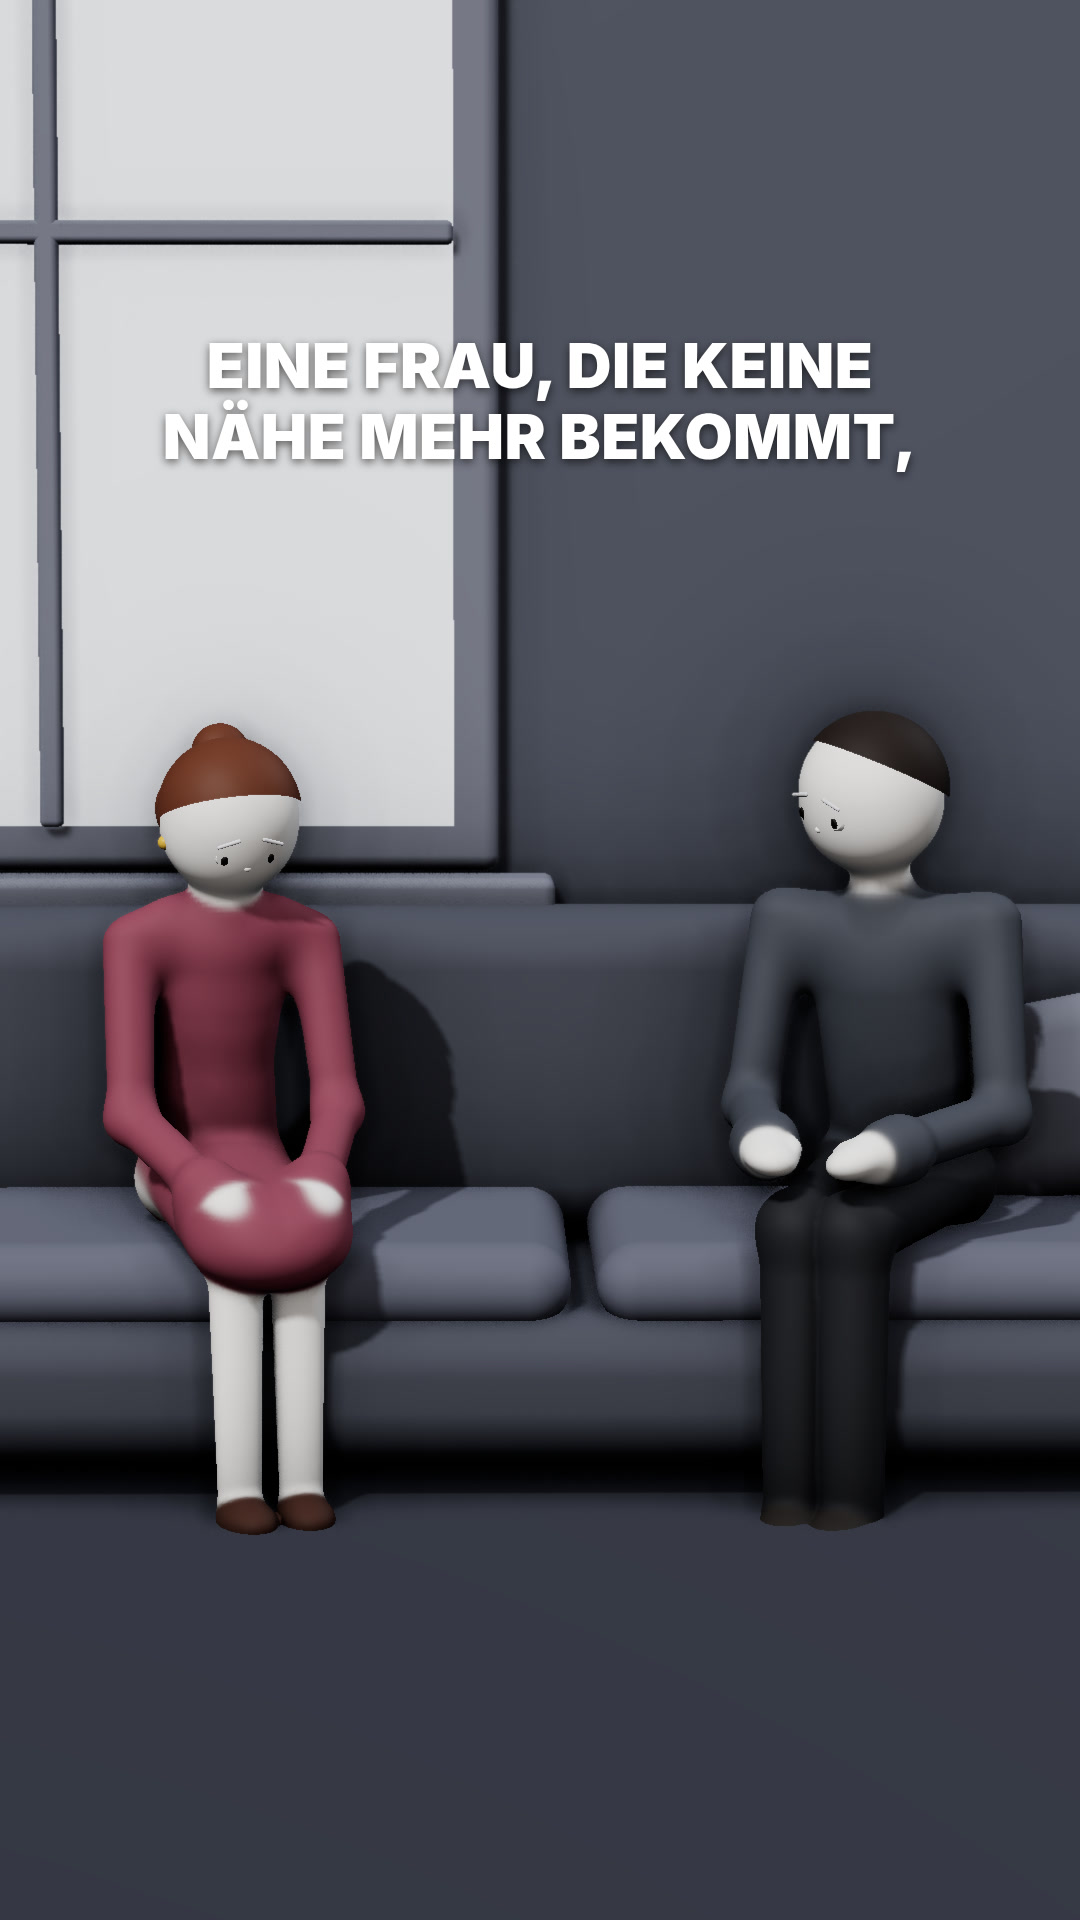
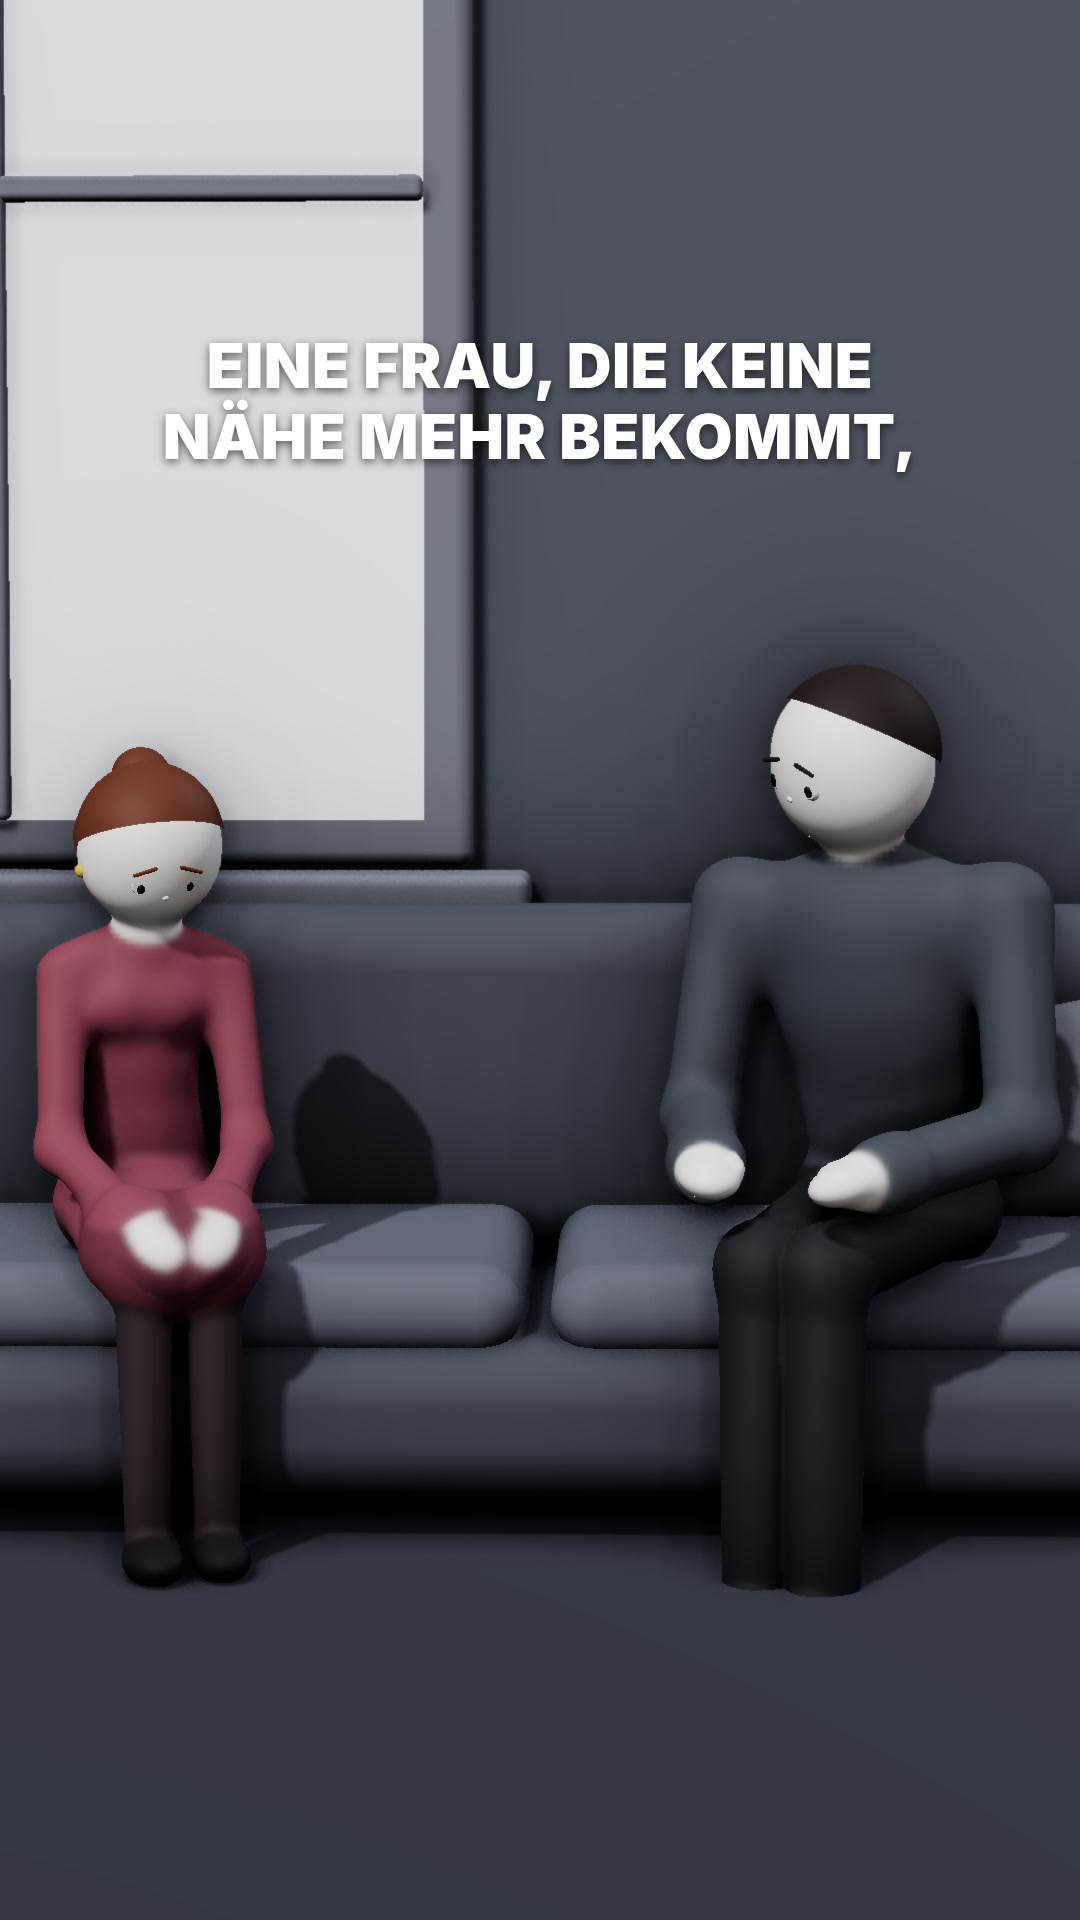
Distinct male/female silhouettes, shorter dress with hem, dark tights
Claude-Session: https://claude.ai/code/session_01FQFJKx8X2643G2hLZWtcZT

Changed region(s): [[0.0, 0.0, 1.0, 0.8438]]

diff --git a/manikin_style/clay/lib/figure.js b/manikin_style/clay/lib/figure.js
@@ -10,7 +10,7 @@ export const MAT = {
   mouth: clay('#83403b', 0.6), mouthIn: clay('#4a2422', 0.7), blush: clay('#eaa596', 0.85), tear: new THREE.MeshPhysicalMaterial({ color: '#cfe6ff', roughness: 0.05, transmission: 0.6, thickness: 0.01 }),
   dress: clay('#c98a93'), hairW: clay('#6b3e2a', 0.72), skirt: clay('#4a4f5c', 0.8), gold: clay('#e9c56a', 0.3),
   shirt: clay('#7fa58a'), pants: clay('#3d4047', 0.8), hairM: clay('#2e2624', 0.78), stubble: clay('#cbb5a5', 0.9), shoeM: clay('#3b3533', 0.6),
-  shoeW: clay('#7d4a2e', 0.6),
+  shoeW: clay('#7d4a2e', 0.6), tights: clay('#3a3036', 0.7),
 };
 
 function M(geo, mat, parent) { const m = new THREE.Mesh(geo, mat); m.castShadow = m.receiveShadow = true; parent.add(m); return m; }
@@ -98,9 +98,9 @@ export function makeFigure(kind) {
   const R = MONO ? (isW ? 0.108 : 0.114) : 0.215;
   const dims0 = isW ? { hipW: 0.062, thigh: 0.24, shin: 0.22, torso: 0.3, shW: 0.145, upper: 0.19, fore: 0.17 }
                    : { hipW: 0.072, thigh: 0.26, shin: 0.24, torso: 0.33, shW: 0.17, upper: 0.21, fore: 0.19 };
-  const dims = !MONO ? dims0 : isW ? { hipW: 0.068, thigh: 0.4, shin: 0.39, torso: 0.44, shW: 0.15, upper: 0.28, fore: 0.25 }
-                                   : { hipW: 0.078, thigh: 0.43, shin: 0.42, torso: 0.48, shW: 0.175, upper: 0.3, fore: 0.27 };
-  const K = MONO ? 0.76 : 1;   // adult proportions, scaled to the size the sets were built for
+  const dims = !MONO ? dims0 : isW ? { hipW: 0.072, thigh: 0.4, shin: 0.39, torso: 0.42, shW: 0.128, upper: 0.27, fore: 0.24 }
+                                   : { hipW: 0.08, thigh: 0.44, shin: 0.43, torso: 0.5, shW: 0.205, upper: 0.31, fore: 0.28 };
+  const K = MONO ? (isW ? 0.72 : 0.775) : 1;   // adult proportions, scaled to the size the sets were built for
   const J = { root };
   const pelvis = J.pelvis = G(root, 0, dims.thigh + dims.shin + 0.07, 0);
   const spine = J.spine = G(pelvis);
@@ -205,17 +205,20 @@ function bodyPrims(J) {
   // --- core: torso (sweater), neckline, head
   const MO = typeof window !== 'undefined' && window.MONO, ts = d.torso / (isW ? 0.3 : 0.33);
   if (MO && isW) {
-    add(cone(v(0, 0.0, 0), v(0, 0.2 * ts, 0), 0.108, 0.082, top, 0.05, Fs, 0.8));        // hips -> waist
-    add(cone(v(0, 0.2 * ts, 0), v(0, 0.265 * ts, 0), 0.082, 0.098, top, 0.05, Fs, 0.8));  // waist -> bust
-    add(cone(v(-0.082, 0.285 * ts, 0), v(0.082, 0.285 * ts, 0), 0.055, 0.055, top, 0.04, Fs, 0.8));
+    add(cone(v(0, 0.0, 0), v(0, 0.19 * ts, 0), 0.118, 0.072, top, 0.05, Fs, 0.8));        // hips -> waist
+    add(cone(v(0, 0.19 * ts, 0), v(0, 0.262 * ts, 0), 0.072, 0.09, top, 0.05, Fs, 0.8));  // waist -> bust
+    for (const s of [-1, 1]) add(ell(v(s * 0.04, 0.245 * ts, 0.05), 0.045, 0.04, 0.035, top, 0.04, Fs));   // bust
+    add(cone(v(-0.07, 0.285 * ts, 0), v(0.07, 0.285 * ts, 0), 0.045, 0.045, top, 0.04, Fs, 0.8));
     const pel = at(J.pelvis, 0, 0.02, 0), knM = at(J.knL).add(at(J.knR)).multiplyScalar(0.5);
     const ax = at(J.hipR).sub(at(J.hipL)).normalize(), ay = knM.clone().sub(pel), L = ay.length(); ay.normalize();
     const az = new THREE.Vector3().crossVectors(ax, ay).normalize(); ax.crossVectors(ay, az).normalize();
     const Fk = new THREE.Matrix4().makeBasis(ax, ay, az).setPosition(pel);
-    add(cone(v(0, -0.01, 0), v(0, L * 1.04, 0), 0.112, 0.126, top, 0.035, Fk, 0.62));    // fitted skirt to the knee
+    add(cone(v(0, -0.01, 0), v(0, L * 0.86, 0), 0.122, 0.13, top, 0.03, Fk, 0.6));       // fitted skirt, ends above the knee
+    add(cone(v(0, L * 0.82, 0), v(0, L * 0.88, 0), 0.134, 0.134, C(MAT.skirt), 0.012, Fk, 0.6));   // clean darker hem
   } else if (MO) {
-    const low = add(cone(v(0, -0.02, 0), v(0, 0.24 * ts, 0), 0.112, 0.122, top, 0.05, Fs, 0.74)); low.split = { y: 0.03, col: C(MAT.pants) };
-    add(cone(v(-0.105, 0.285 * ts, 0), v(0.105, 0.285 * ts, 0), 0.068, 0.068, top, 0.05, Fs, 0.78));
+    const low = add(cone(v(0, -0.02, 0), v(0, 0.22 * ts, 0), 0.115, 0.138, top, 0.05, Fs, 0.72)); low.split = { y: 0.03, col: C(MAT.pants) };
+    add(cone(v(0, 0.22 * ts, 0), v(0, 0.27 * ts, 0), 0.138, 0.14, top, 0.05, Fs, 0.72));
+    add(cone(v(-0.15, 0.285 * ts, 0), v(0.15, 0.285 * ts, 0), 0.078, 0.078, top, 0.05, Fs, 0.75));
     add(cone(at(J.hipL, 0, -0.02, 0), at(J.hipR, 0, -0.02, 0), 0.07, 0.07, C(MAT.pants), 0.04));
   } else if (isW) {
     add(cone(v(0, 0.0, 0), v(0, 0.15, 0), 0.125, 0.11, top, 0.05, Fs, 0.8));
@@ -272,7 +275,7 @@ function bodyPrims(J) {
   // --- arms: sleeve -> ribbed cuff -> wrist -> mitten hand with a thumb
   for (const [s, k] of [[-1, 'L'], [1, 'R']]) {
     const g = 'arm' + k, sh = at(J['sh' + k]), el = at(J['el' + k]), ha = at(J['ha' + k]), Fa = fr(J['ha' + k]);
-    const am = MO ? 0.8 : 1;
+    const am = MO ? (isW ? 0.74 : 0.98) : 1;
     add(cone(sh, el, (isW ? 0.05 : 0.056) * am, (isW ? 0.045 : 0.05) * am, top, 0.03), g, 0.05);
     add(cone(el, ha, (isW ? 0.045 : 0.05) * am, (isW ? 0.043 : 0.048) * am, top, 0.03), g);
     add(cone(v(0, 0.025, 0), v(0, 0.0, 0), isW ? 0.049 : 0.054, isW ? 0.047 : 0.052, top, 0.01, Fa), g);
@@ -283,7 +286,7 @@ function bodyPrims(J) {
   // --- legs: each its own chain
   for (const k of ['L', 'R']) {
     const g = 'leg' + k, hp = at(J['hip' + k]), kn = at(J['kn' + k]), an = at(J['an' + k]), Fan = fr(J['an' + k]);
-    const legC = C(isW ? MAT.skin : MAT.pants);
+    const legC = C(isW ? (MO ? MAT.tights : MAT.skin) : MAT.pants);
     add(cone(hp, kn, isW ? 0.05 : 0.064, isW ? 0.043 : 0.057, legC, 0.03), g, 0.03);
     add(cone(kn, an, isW ? 0.043 : 0.057, isW ? 0.033 : 0.05, legC, 0.03), g);
     add(ell(v(0, -0.035, 0.04), isW ? 0.044 : 0.054, isW ? 0.034 : 0.04, isW ? 0.078 : 0.09, C(isW ? MAT.shoeW : MAT.shoeM), 0.02, Fan), g);

diff --git a/manikin_style/clay/lib/shots.js b/manikin_style/clay/lib/shots.js
@@ -7,13 +7,21 @@ const WORRY = { brow: 0.7, mouth: -0.35, lid: 0.2, look: [0, -0.2] };
 const BLANK = { brow: 0.1, mouth: -0.1, lid: 0.45, look: [0, -0.9] };
 
 export const SHOTS = {
+  stand2: {
+    set: 'minimal', cap: 'zieht sich irgendwann zurück.',
+    fig: [
+      { kind: 'w', at: [-0.42, -0.1], yaw: 0.55, pose: mix(POSES.armsCrossed, { head: [0.25, 0.25, 0] }), face: SAD },
+      { kind: 'm', at: [0.45, 0.0], yaw: -0.6, pose: mix(POSES.stand, { head: [0.05, 0.1, 0] }), face: { ...WORRY, look: [-0.6, 0] } },
+    ],
+    cam: { pos: [0.0, 1.0, 4.4], look: [0.0, 0.75, -0.2], fov: 30 },
+  },
   pair: {
     set: 'minimal', cap: 'Eine Frau, die keine Nähe mehr bekommt,',
     fig: [
-      { kind: 'w', at: [-0.3, -0.66], yaw: 0.28, pose: mix(POSES.sitSad, { head: [0.38, 0.12, 0], neck: [0.12, 0, 0] }), face: SAD },
-      { kind: 'm', at: [0.55, -0.66], yaw: -0.4, pose: mix(POSES.sitPhone, { spine: [0.3, 0, 0], head: [0.15, -0.45, 0], neck: [0.05, -0.15, 0] }), face: { ...WORRY, look: [-0.7, -0.2] } },
+      { kind: 'w', at: [-0.3, -0.58], yaw: 0.28, pose: mix(POSES.sitSad, { head: [0.38, 0.12, 0], neck: [0.12, 0, 0] }), face: SAD },
+      { kind: 'm', at: [0.55, -0.56], yaw: -0.4, pose: mix(POSES.sitPhone, { spine: [0.3, 0, 0], head: [0.15, -0.45, 0], neck: [0.05, -0.15, 0] }), face: { ...WORRY, look: [-0.7, -0.2] } },
     ],
-    cam: { pos: [0.05, 0.95, 3.7], look: [0.1, 0.62, -0.6], fov: 30 },
+    cam: { pos: [0.25, 0.9, 3.4], look: [0.15, 0.62, -0.6], fov: 30 },
   },
   sofa: {
     set: 'living', cap: 'Je mehr sie liebt,',

diff --git a/manikin_style/clay/index.html b/manikin_style/clay/index.html
@@ -31,8 +31,8 @@ const shot = SHOTS[Q.get('shot') || 'sofa'];
 if (window.MONO) {
   const W = '#e8e8ec';
   for (const k of ['skin','skinSh']) MAT[k].color.set('#e9e8e6');
-  MAT.dress.color.set('#8a4a5a'); MAT.shirt.color.set('#4b5059'); MAT.pants.color.set('#2a2c31'); MAT.shoeW.color.set('#4a2f26'); MAT.shoeM.color.set('#2c2826'); MAT.stubble.color.set('#e9e8e6');
-  MAT.hairW.color.set('#d9d9de'); MAT.hairM.color.set('#d4d4d9'); MAT.blush.visible = false; MAT.gold.color.set(W);
+  MAT.dress.color.set('#8a4a5a'); MAT.shirt.color.set('#4b5059'); MAT.pants.color.set('#2a2c31'); MAT.shoeW.color.set('#1f1c1e'); MAT.skirt.color.set('#6e3946'); MAT.shoeM.color.set('#2c2826'); MAT.stubble.color.set('#e9e8e6');
+  MAT.blush.visible = false; MAT.gold.color.set(W);
   MAT.mouth.color.set('#2a2a30'); MAT.mouthIn.color.set('#202026');
   const dark = { wall: '#555a66', wall2: '#4c515d', floor: '#3e414b', wood: '#5d6170', dark: '#2e3038', mid: '#4d515c', soft: '#626674', light: '#757986', white: '#858996' };
   for (const [k, c] of Object.entries(dark)) SM[k].color.set(c);

diff --git a/manikin_style/README.md b/manikin_style/README.md
@@ -16,3 +16,6 @@ MONO=1 CAPS='{"sofa":"Eine Frau, die keine Nähe mehr bekommt,"}' NODE_PATH=$(np
 
 ## v4 (`frames_adult/`)
 Взрослые пропорции (голова ~1/7 роста, длинные ноги, узкие плечи), облегающее винное платье, графитовый свитер, пустая комната `minimal` с большим окном, сцена `pair`.
+
+## v5
+Мужчина и женщина различаются силуэтом: она ниже, узкие плечи, талия, бёдра; он выше, широкие плечи. Платье выше колена с тёмной кромкой, тёмные колготки.
